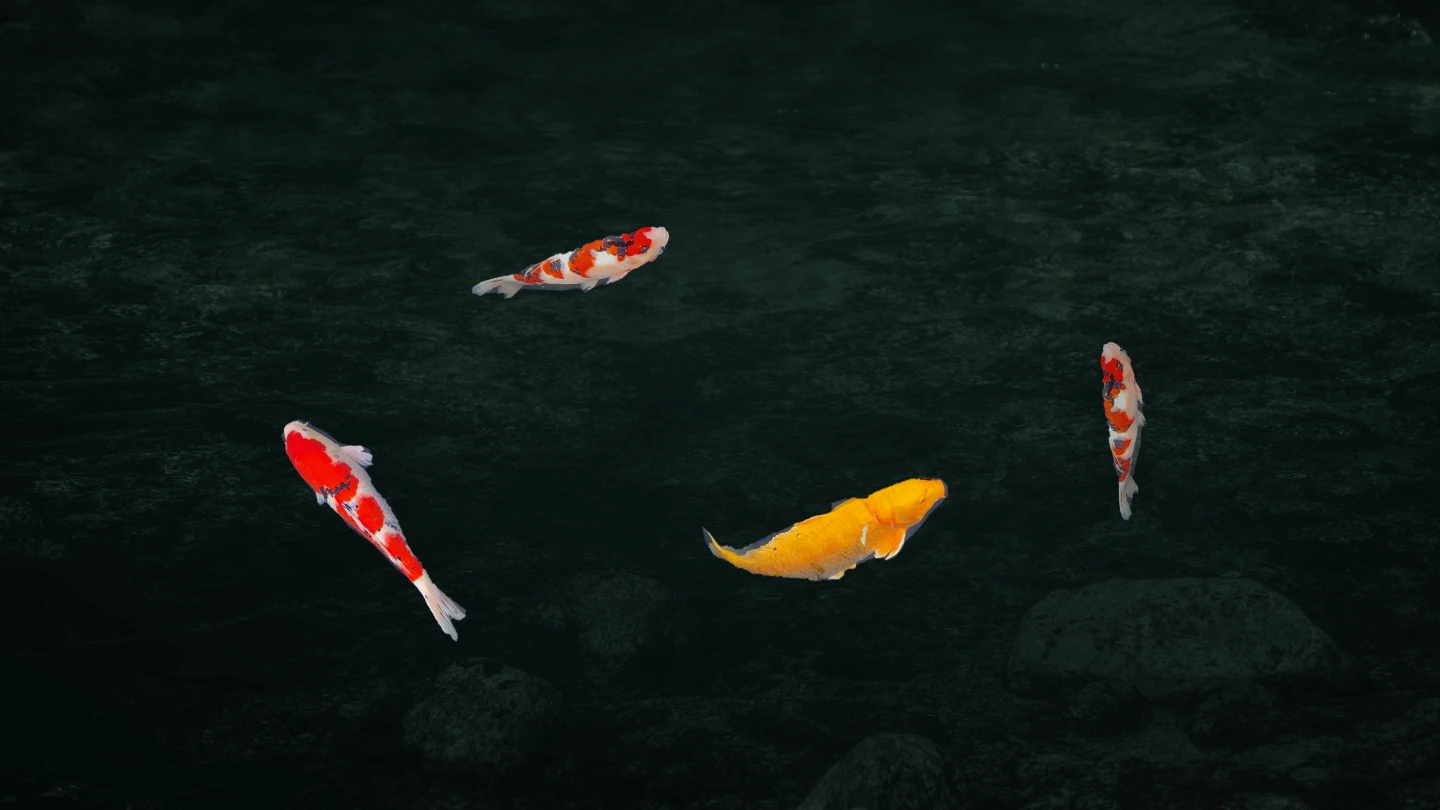
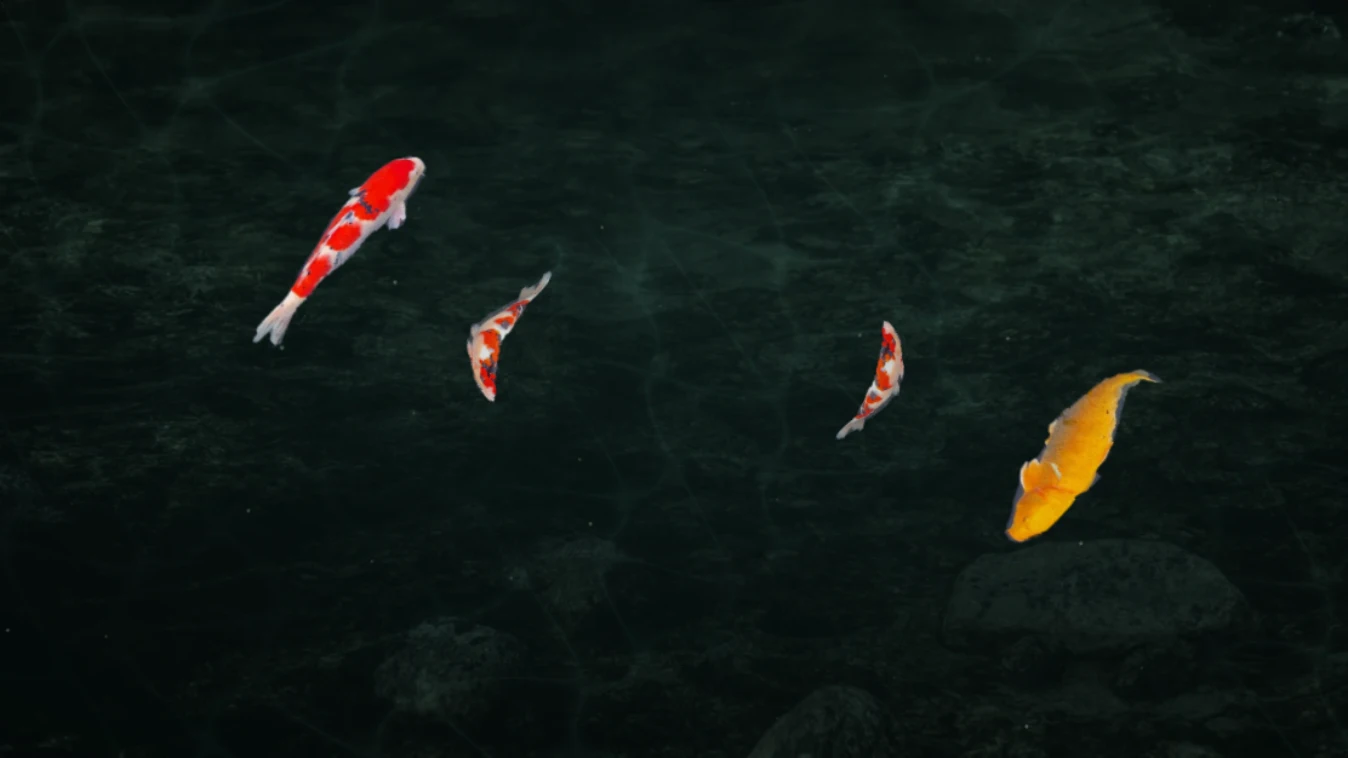
Couple koi strokes and glides to their water wakes

diff --git a/src/components/professional/artwork-pond.ts b/src/components/professional/artwork-pond.ts
@@ -1,0 +1,174 @@
+const height = 562.5;
+const tau = Math.PI * 2;
+type Point = readonly [number, number];
+
+function catmull(a: number, b: number, c: number, d: number, t: number) {
+  return b + .5 * t * (c - a + t * (2 * a - 5 * b + 4 * c - d + t * (3 * b - a - 3 * c + d)));
+}
+
+function makeTrack(waypoints: Point[]) {
+  const count = waypoints.length;
+  const points: Point[] = [];
+  const distance = [0];
+  const at = (i: number) => waypoints[(i + count) % count];
+  for (let i = 0; i <= count; i++) {
+    const [a, b, c, d] = [at(i - 1), at(i), at(i + 1), at(i + 2)];
+    const steps = i === count ? 1 : 40;
+    for (let j = 0; j < steps; j++) {
+      const t = j / 40;
+      const point: Point = [catmull(a[0], b[0], c[0], d[0], t), catmull(a[1], b[1], c[1], d[1], t)];
+      const last = points[points.length - 1];
+      if (last) distance.push(distance[distance.length - 1] + Math.hypot(point[0] - last[0], point[1] - last[1]));
+      points.push(point);
+    }
+  }
+  const length = distance[distance.length - 1];
+  // Resample by distance so tighter turns don't cause artificial speed changes.
+  const samples: Point[] = [];
+  const steps = Math.ceil(length);
+  let cursor = 0;
+  for (let i = 0; i < steps; i++) {
+    const target = i * length / steps;
+    while (distance[cursor + 1] < target) cursor++;
+    const blend = (target - distance[cursor]) / (distance[cursor + 1] - distance[cursor]);
+    const [a, b] = [points[cursor], points[cursor + 1]];
+    samples.push([a[0] + (b[0] - a[0]) * blend, a[1] + (b[1] - a[1]) * blend]);
+  }
+
+  function pointAt(distance: number): Point {
+    const unit = ((distance % length + length) % length) * steps / length;
+    const index = Math.floor(unit);
+    const blend = unit - index;
+    const [a, b] = [samples[index], samples[(index + 1) % steps]];
+    return [a[0] + (b[0] - a[0]) * blend, a[1] + (b[1] - a[1]) * blend];
+  }
+
+  function headingAt(distance: number) {
+    const a = pointAt(distance - 4);
+    const b = pointAt(distance + 4);
+    return Math.atan2(b[1] - a[1], b[0] - a[0]);
+  }
+
+  return { length, pointAt, headingAt };
+}
+
+const outer = makeTrack([[208, 253], [329, 127], [590, 111], [805, 174], [810, 324], [655, 428], [399, 454], [220, 375]]);
+const inner = makeTrack([[358, 261], [420, 332], [579, 342], [660, 284], [620, 218], [480, 202], [393, 220]]);
+
+const koi = [
+  { asset: 1, track: inner, start: .48, size: 105, speed: 23, frequency: .85, phase: .44, cycle: 5.9, opacity: .78 },
+  { asset: 1, track: inner, start: .97, size: 120, speed: 22, frequency: .73, phase: .09, cycle: 6.4, opacity: .84 },
+  { asset: 2, track: outer, start: .53, size: 165, speed: 32, frequency: .79, phase: .71, cycle: 6.1, opacity: .91 },
+  { asset: 0, track: outer, start: .045, size: 187, speed: 32, frequency: .76, phase: .32, cycle: 6.9, opacity: .95 },
+];
+type Koi = (typeof koi)[number];
+
+function poseAt(fish: Koi, time: number) {
+  const cadence = time / fish.cycle * tau + fish.phase * tau;
+  const surge = Math.sin(cadence) * fish.cycle / tau * .24;
+  const effort = Math.max(0, (Math.cos(cadence) + .28) / 1.28);
+  const distance = fish.track.length * fish.start + fish.speed * (time + surge);
+  const heading = fish.track.headingAt(distance);
+  return {
+    distance,
+    center: fish.track.pointAt(distance),
+    forward: [Math.cos(heading), Math.sin(heading)] as Point,
+    amplitude: fish.size * (.008 + .049 * effort),
+    phase: (time * fish.frequency + fish.phase) * tau,
+    effort,
+  };
+}
+
+function spine(fish: Koi, pose: ReturnType<typeof poseAt>, u: number): Point {
+  const offset = (u - .50) * fish.size;
+  const [x, y] = fish.track.pointAt(pose.distance + offset);
+  const [dx, dy] = pose.forward;
+  const [cx, cy] = pose.center;
+  const sway = Math.cos(pose.phase + u * 5.6) * pose.amplitude * (1 - u) ** 2.8;
+  const follow = .62;
+  return [
+    x * follow + (cx + dx * offset) * (1 - follow) - dy * sway,
+    y * follow + (cy + dy * offset) * (1 - follow) + dx * sway,
+  ];
+}
+
+export function createPondSwim() {
+  const noses = new Float32Array(16);
+  const wakes = new Float32Array(32);
+  const wakeAges = new Float32Array(8);
+
+  function draw(ctx: CanvasRenderingContext2D, images: HTMLImageElement[], time: number) {
+    for (const [i, fish] of koi.entries()) {
+      const pose = poseAt(fish, time);
+      const [noseX, noseY] = spine(fish, pose, 1);
+      const [napeX, napeY] = spine(fish, pose, .92);
+      const noseAngle = Math.atan2(noseY - napeY, noseX - napeX);
+      noses.set([noseX / height, noseY / height, noseAngle, fish.opacity * (.40 + pose.effort * .47)], i * 4);
+
+      // A slowed-down, visible representation of the alternating tail vortices.
+      // Sample their origin at the half-stroke, so they stay behind as the koi moves away.
+      const lastBeat = Math.floor((time * fish.frequency + fish.phase) * 2);
+      for (let j = 0; j < 2; j++) {
+        const beat = lastBeat - j;
+        const released = (beat * .5 - fish.phase) / fish.frequency;
+        const stroke = poseAt(fish, released);
+        const [x, y] = spine(fish, stroke, 0);
+        const [stemX, stemY] = spine(fish, stroke, .09);
+        const heading = Math.atan2(stemY - y, stemX - x);
+        const direction = beat % 2 ? -1 : 1;
+        const index = i * 2 + j;
+        wakes.set([x / height, y / height, heading, direction * stroke.effort * fish.opacity], index * 4);
+        wakeAges[index] = time - released;
+      }
+
+      const sprite = images[fish.asset];
+      const thickness = fish.size * sprite.height / sprite.width;
+      const slices = 22;
+      const sourceSlice = sprite.width / slices;
+      const slice = fish.size / slices;
+      const [dx, dy] = pose.forward;
+      let start = spine(fish, pose, 0);
+      ctx.save();
+      ctx.globalAlpha = fish.opacity;
+      for (let j = 0; j < slices; j++) {
+        const end = spine(fish, pose, (j + 1) / slices);
+        const x = (end[0] - start[0]) / slice;
+        const y = (end[1] - start[1]) / slice;
+        ctx.save();
+        ctx.transform(x, y, -dy, dx, start[0], start[1]);
+        ctx.drawImage(sprite, j * sourceSlice, 0, sourceSlice, sprite.height,
+          0, -.5 * thickness, slice + .3, thickness);
+        ctx.restore();
+        start = end;
+      }
+      ctx.restore();
+    }
+  }
+
+  function drawFallbackWake(ctx: CanvasRenderingContext2D) {
+    ctx.save();
+    ctx.strokeStyle = "#82b9b0";
+    ctx.lineWidth = .9;
+    for (let i = 0; i < wakeAges.length; i++) {
+      const age = wakeAges[i];
+      const index = i * 4;
+      const strength = wakes[index + 3];
+      const alpha = Math.min(age * 7, 1) * Math.max(0, 1 - age) * Math.abs(strength) * .24;
+      if (alpha < .01) continue;
+      const side = Math.sign(strength);
+      const heading = wakes[index + 2];
+      const spread = 8 + age * 20;
+      ctx.globalAlpha = alpha;
+      ctx.beginPath();
+      ctx.ellipse(
+        wakes[index] * height - Math.sin(heading) * spread * side,
+        wakes[index + 1] * height + Math.cos(heading) * spread * side,
+        spread, spread * .56, heading, Math.PI * .59, Math.PI * 1.49,
+      );
+      ctx.stroke();
+    }
+    ctx.restore();
+  }
+
+  return { draw, drawFallbackWake, noses, wakes, wakeAges };
+}

diff --git a/src/components/professional/artwork-water.ts b/src/components/professional/artwork-water.ts
@@ -1,3 +1,5 @@
+import type { createPondSwim } from "./artwork-pond";
+
 // Texture coordinates run from the upper left, like the photograph and pointer.
 const vertex = `
 attribute vec2 position;
@@ -18,6 +20,9 @@ varying vec2 uv;
 uniform sampler2D photo;
 uniform float time;
 uniform vec4 waves[3];
+uniform vec4 noses[4];
+uniform vec4 wakes[8];
+uniform float wakeAges[8];
 
 void main() {
   // Work in aspect-correct pond coordinates so ripples stay circular.
@@ -37,6 +42,40 @@ void main() {
     float ring = sin(front * 112.) * exp(-abs(front) * 46.) * pulse * impulse.w;
     at += offset / max(radius, .009) * ring * vec2(.008, .013);
     rippleLight += max(ring, 0.) * .106 + min(ring, 0.) * .028;
+  }
+  for (int i = 0; i < 4; ++i) {
+    vec4 nose = noses[i];
+    vec2 offset = p - nose.xy;
+    if (max(abs(offset.x), abs(offset.y)) > .105) continue;
+    vec2 along = vec2(cos(nose.z), sin(nose.z));
+    float ahead = dot(offset, along);
+    float side = dot(offset, vec2(-along.y, along.x));
+    // A short bow wave falls away on either side as the fish displaces water.
+    float front = ahead - .020 + side * side * 9.;
+    float arc = exp(-abs(front) * 204. - (side * side) * 450.);
+    float sway = arc * nose.w * smoothstep(-.047, -.012, ahead);
+    at -= along * sway * vec2(.003, .005);
+    rippleLight += sway * .063;
+  }
+  for (int i = 0; i < 8; ++i) {
+    vec4 wake = wakes[i];
+    float age = wakeAges[i];
+    if (age > 1.28 || abs(wake.w) < .025) continue;
+    vec2 along = vec2(cos(wake.z), sin(wake.z));
+    vec2 across = vec2(-along.y, along.x);
+    vec2 center = wake.xy - along * age * .027
+      + across * sign(wake.w) * (.011 + age * .025);
+    vec2 offset = p - center;
+    float spread = .024 + age * .043;
+    if (max(abs(offset.x), abs(offset.y)) > spread * 2.2) continue;
+    vec2 field = vec2(dot(offset, along) * .76, dot(offset, across));
+    float radius = length(field) / spread;
+    float fade = smoothstep(0., .11, age) * (1. - smoothstep(.26, 1.28, age));
+    float curl = fade * wake.w * exp(-radius * radius * 1.25);
+    at += vec2(-offset.y, offset.x) / spread * curl * vec2(.009, .014);
+    float arc = exp(-abs(radius - .76) * 3.7);
+    float lee = clamp(.57 + dot(offset, -along) / spread, 0., 1.);
+    rippleLight += fade * abs(wake.w) * arc * lee * .088;
   }
   float folded = sin(primary + sin(crossWave * .72) * 1.42) + sin(crossWave);
   float caustic = pow(max(0., 1. - abs(folded) * 1.13), 5.);
@@ -108,13 +147,19 @@ export function createArtworkSurface(canvas: HTMLCanvasElement, source: HTMLCanv
   gl.uniform1i(gl.getUniformLocation(program, "photo"), 0);
   const clock = gl.getUniformLocation(program, "time");
   const impulses = gl.getUniformLocation(program, "waves[0]");
+  const bowPoints = gl.getUniformLocation(program, "noses[0]");
+  const wakePoints = gl.getUniformLocation(program, "wakes[0]");
+  const ages = gl.getUniformLocation(program, "wakeAges[0]");
 
   return {
-    draw(time: number, waves: Float32Array) {
+    draw(time: number, waves: Float32Array, flow: ReturnType<typeof createPondSwim>) {
       gl.viewport(0, 0, canvas.width, canvas.height);
       gl.texSubImage2D(gl.TEXTURE_2D, 0, 0, 0, gl.RGBA, gl.UNSIGNED_BYTE, source);
       gl.uniform1f(clock, time);
       gl.uniform4fv(impulses, waves);
+      gl.uniform4fv(bowPoints, flow.noses);
+      gl.uniform4fv(wakePoints, flow.wakes);
+      gl.uniform1fv(ages, flow.wakeAges);
       gl.drawArrays(gl.TRIANGLE_STRIP, 0, 4);
     },
     dispose,

diff --git a/src/components/professional/artwork-life.ts b/src/components/professional/artwork-life.ts
@@ -2,58 +2,6 @@ const width = 1000;
 const height = 562.5;
 const circle = Math.PI * 2;
 
-const koi = [
-  { asset: 1, x: 527, y: 284, rx: 263, ry: 127, phase: 4.25, speed: .101, size: 149, depth: .82 },
-  { asset: 2, x: 488, y: 263, rx: 213, ry: 129, phase: 1.08, speed: -.114, size: 168, depth: .93 },
-  { asset: 0, x: 485, y: 297, rx: 245, ry: 125, phase: 2.53, speed: .111, size: 198, depth: .95 },
-  { asset: 1, x: 576, y: 279, rx: 205, ry: 112, phase: .06, speed: -.092, size: 122, depth: .73 },
-];
-
-function swimAt(fish: (typeof koi)[number], time: number) {
-  const angle = fish.phase + time * fish.speed + Math.sin(time * .36 + fish.phase) * .11;
-  return {
-    x: fish.x + Math.cos(angle) * fish.rx + Math.sin(angle * 2) * 12,
-    y: fish.y + Math.sin(angle) * fish.ry + Math.cos(angle * 3) * 12,
-    angle,
-  };
-}
-
-export function drawKoi(ctx: CanvasRenderingContext2D, fishImages: HTMLImageElement[], time: number) {
-  koi.forEach((fish, i) => {
-    const { x, y, angle } = swimAt(fish, time);
-    const next = swimAt(fish, time + .15);
-    const previous = swimAt(fish, time - .15);
-    const heading = Math.atan2(next.y - previous.y, next.x - previous.x);
-    const sprite = fishImages[fish.asset];
-    const length = fish.size * (1 + Math.sin(angle + i * .7) * .037);
-    const thickness = length * sprite.height / sprite.width;
-    const tail = (u: number) => (Math.sin(time * (3.4 + i * .23) + u * 6.9 + i * 1.7) - Math.sign(fish.speed) * .27)
-      * (1 - u) ** 2.34 * length * .105;
-
-    ctx.save();
-    ctx.translate(x, y);
-    ctx.rotate(heading);
-    ctx.globalAlpha = fish.depth + Math.sin(time * .64 + x * .023 + y * .018) * .045;
-    const slices = 26;
-    const slice = length / slices;
-    let previousBend = tail(0);
-    // The head leads the turn, with successive slices following along the spine.
-    for (let j = 0; j < slices; j++) {
-      const u = j / slices;
-      const nextBend = tail((j + 1) / slices);
-      const slope = (nextBend - previousBend) / slice;
-      const left = length * (u - .5);
-      ctx.save();
-      ctx.transform(1, slope, 0, 1, 0, previousBend - slope * left);
-      ctx.drawImage(sprite, u * sprite.width, 0, sprite.width / slices, sprite.height,
-        left, -thickness * .5, slice + .31, thickness);
-      ctx.restore();
-      previousBend = nextBend;
-    }
-    ctx.restore();
-  });
-}
-
 function noise(seed: number) {
   const n = Math.sin(seed * 127.1 + 78.23) * 43758.5453;
   return n - Math.floor(n);

diff --git a/src/components/professional/scenic-artwork.tsx b/src/components/professional/scenic-artwork.tsx
@@ -1,7 +1,8 @@
 import gsap from "gsap";
 import Image from "next/image";
 import { useEffect, useRef, useState } from "react";
-import { drawKoi, drawMeadow, drawPondMotes, makeFireflies } from "./artwork-life";
+import { drawMeadow, drawPondMotes, makeFireflies } from "./artwork-life";
+import { createPondSwim } from "./artwork-pond";
 import { scenicArtworks, type ScenicId } from "./artwork-scenes";
 import { createArtworkSurface } from "./artwork-water";
 
@@ -46,15 +47,17 @@ export function ScenicArtwork({ id, active }: { id: ScenicId; active: boolean })
     let disposed = false, ready = false, visible = false, running = false;
     let elapsed = 0, throttle = 0, waveIndex = 0;
     const pond = id === "pond";
+    const swim = pond ? createPondSwim() : null;
 
     function draw() {
       context.clearRect(0, 0, width, height);
-      if (pond && plate) {
+      if (swim && plate) {
         const brush = surface && underwater ? underwater : context;
         brush.drawImage(plate, 0, 0, width, height);
-        drawKoi(brush, life, elapsed);
+        swim.draw(brush, life, elapsed);
+        if (!surface) swim.drawFallbackWake(brush);
         drawPondMotes(brush, elapsed, waves);
-        if (surface) surface.draw(elapsed, waves);
+        surface?.draw(elapsed, waves, swim);
       }
       if (id === "plateau" && plate) {
         context.drawImage(plate, 0, 0, width, height);
